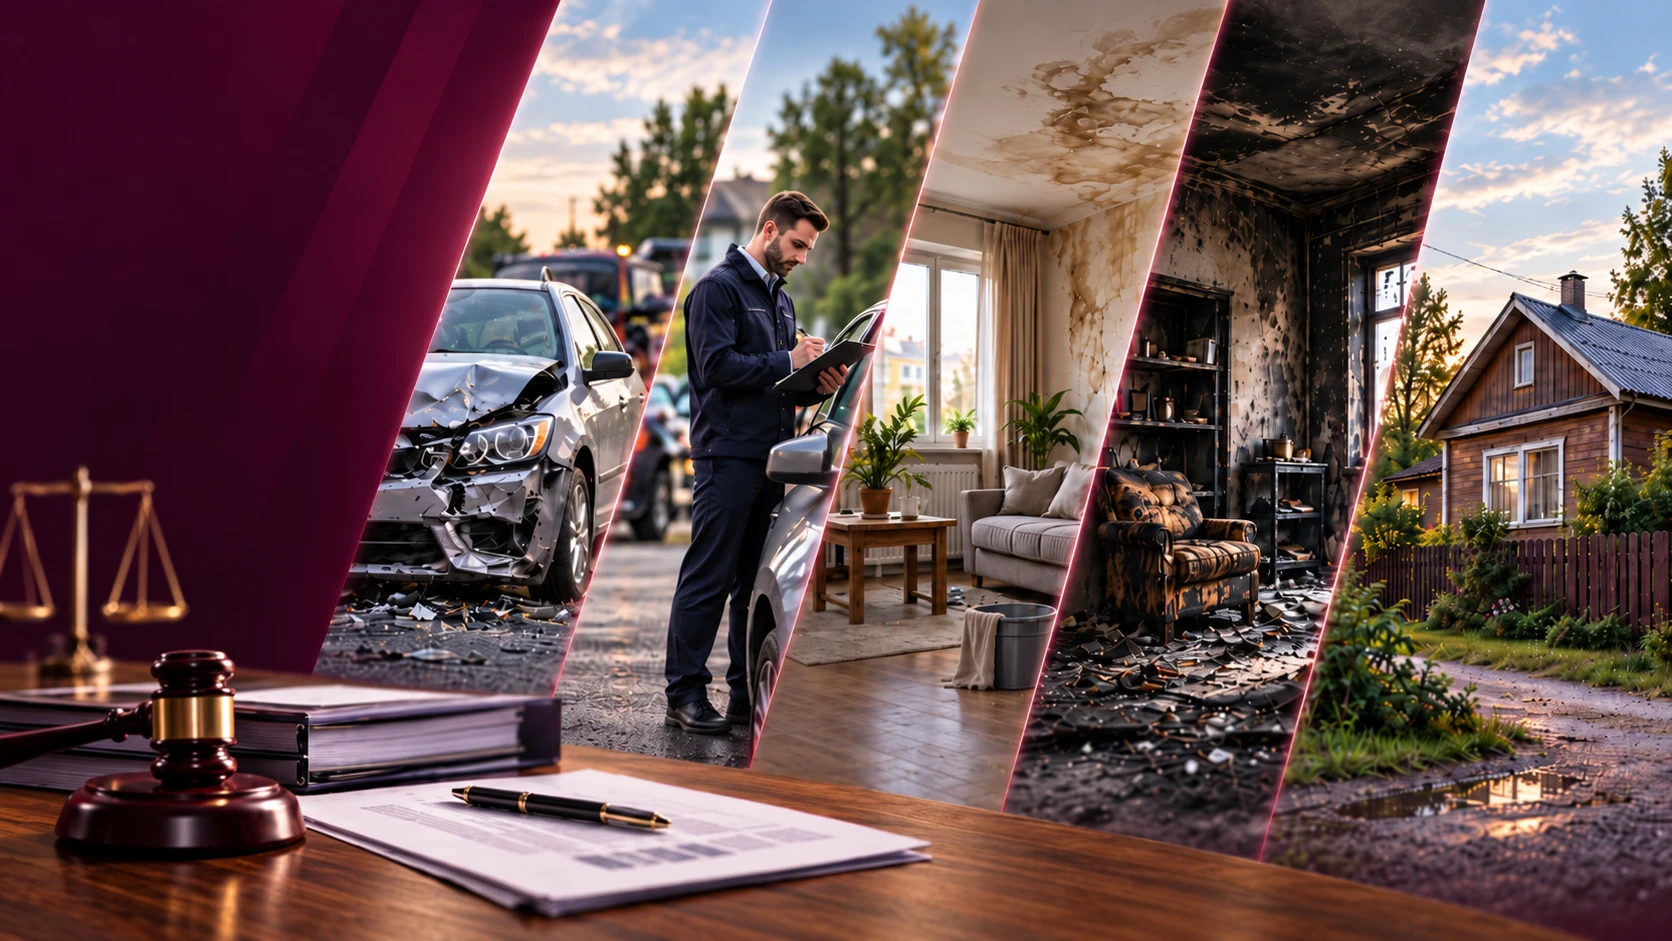
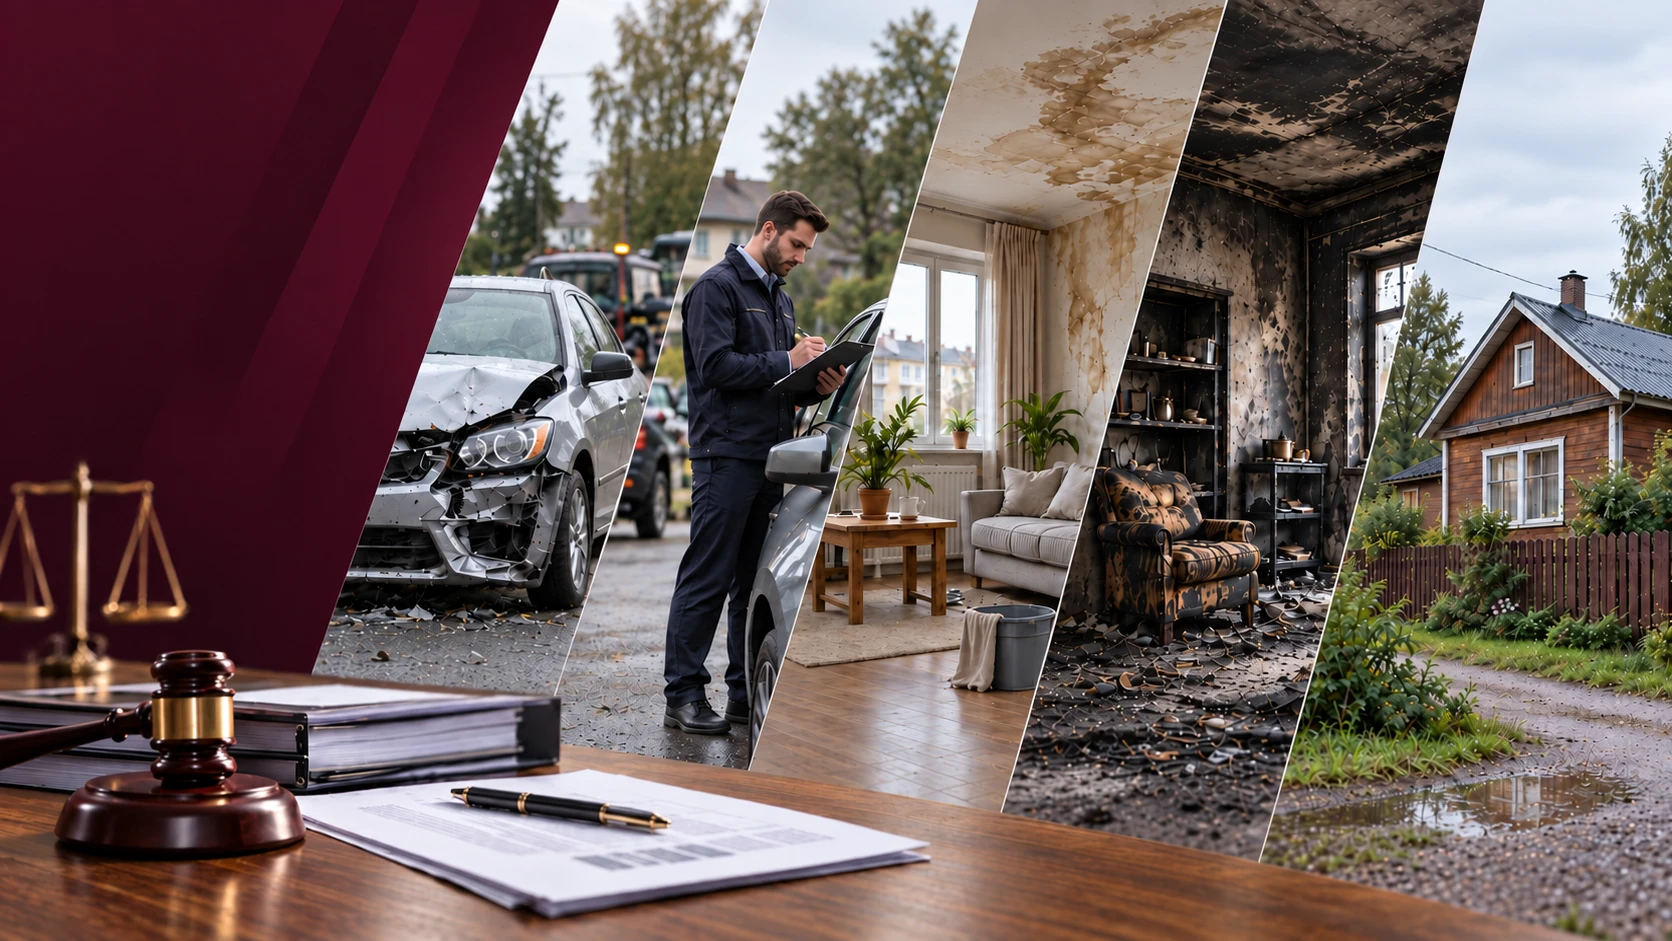
Демо: новая картинка первого экрана
Claude-Session: https://claude.ai/code/session_01WxzuryYB9ecx6w7kvuKQRV

diff --git a/styles.css b/styles.css
@@ -53,7 +53,7 @@ nav.main a:hover{color:var(--crimson)}
 
 /* hero */
 .hero{position:relative;min-height:600px;display:flex;align-items:center;color:#fff;background:#2A0B23}
-.hero img.bg{position:absolute;inset:0;width:100%;height:100%;object-fit:cover;object-position:center}
+.hero img.bg{position:absolute;inset:0;width:100%;height:100%;object-fit:cover;object-position:center 28%}
 .hero::after{content:"";position:absolute;inset:0;background:linear-gradient(100deg,var(--plum) 0%,rgba(58,16,48,.92) 42%,rgba(58,16,48,.45) 75%,rgba(58,16,48,.2) 100%)}
 .hero .wrap{position:relative;z-index:2;padding:5rem 22px;width:100%}
 .hero .kicker{color:#f3b9cd}.hero .kicker::before{background:#f3b9cd}
